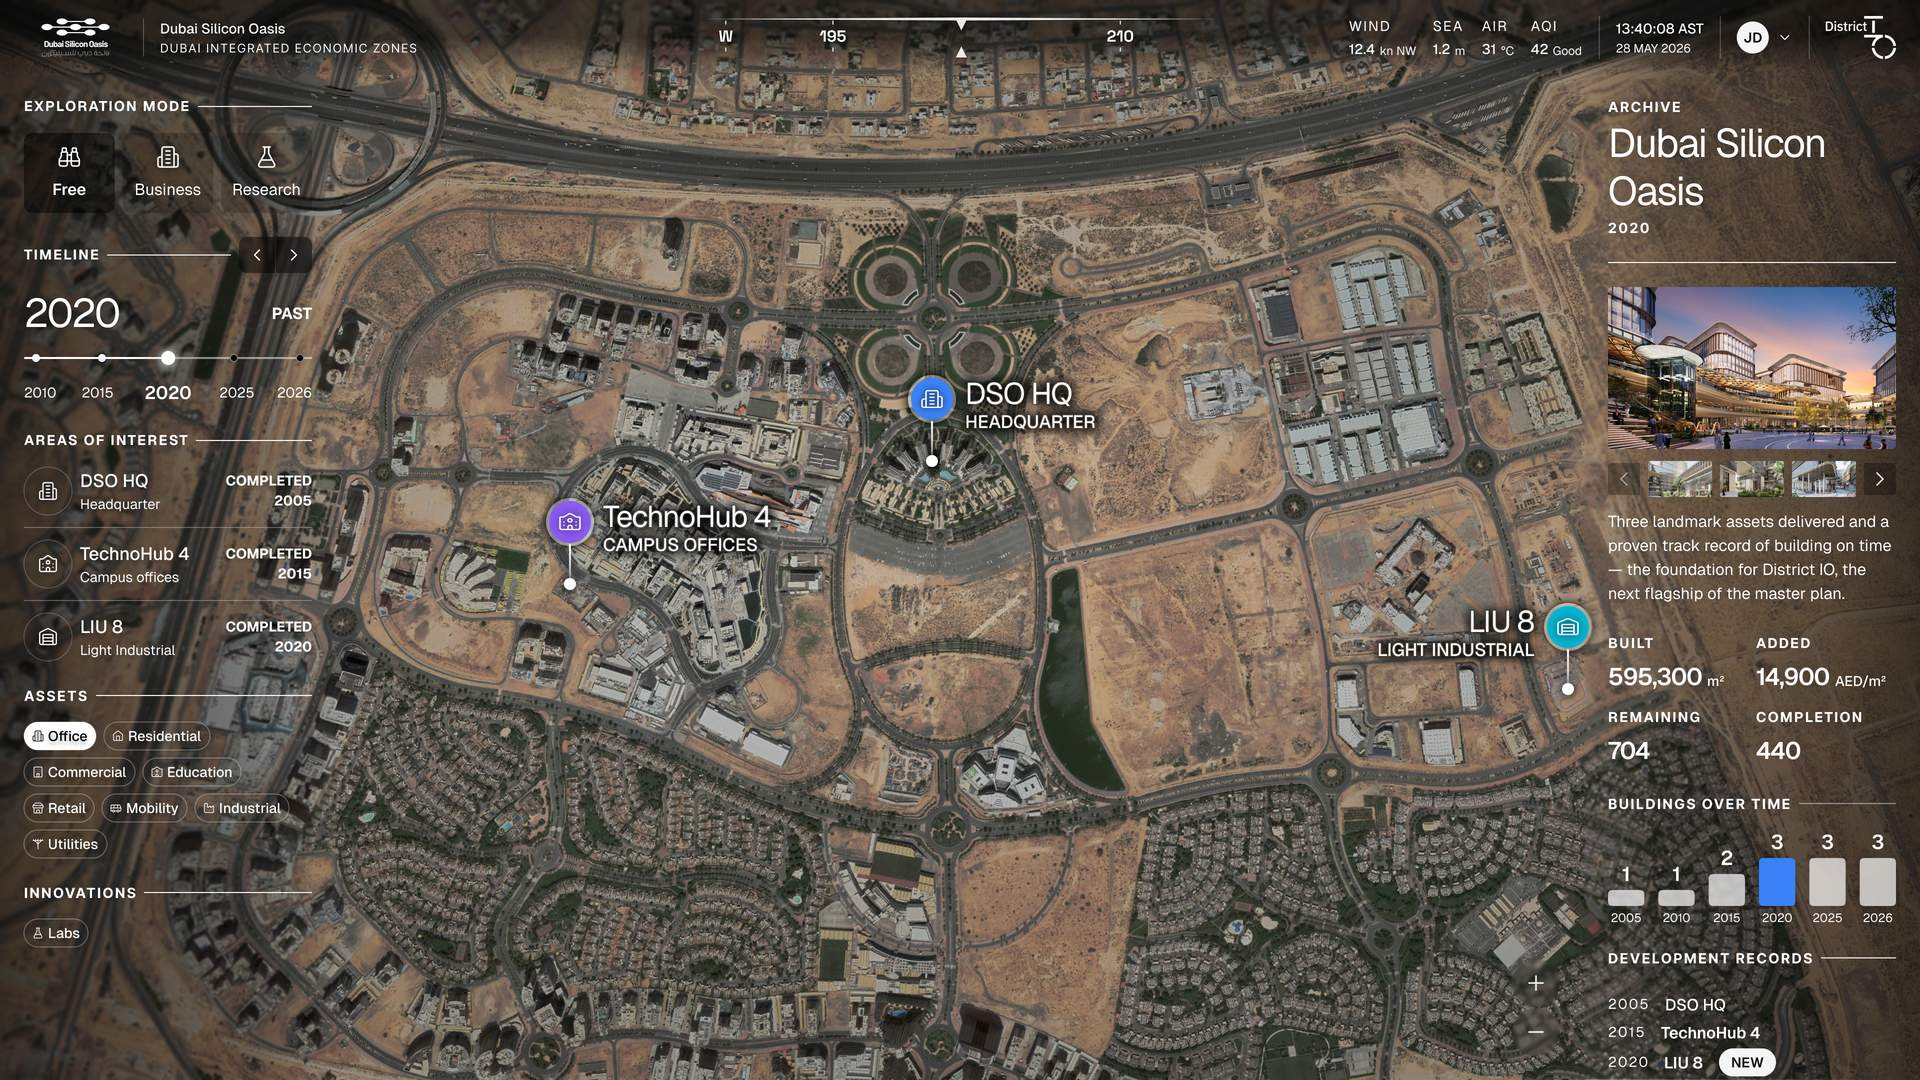
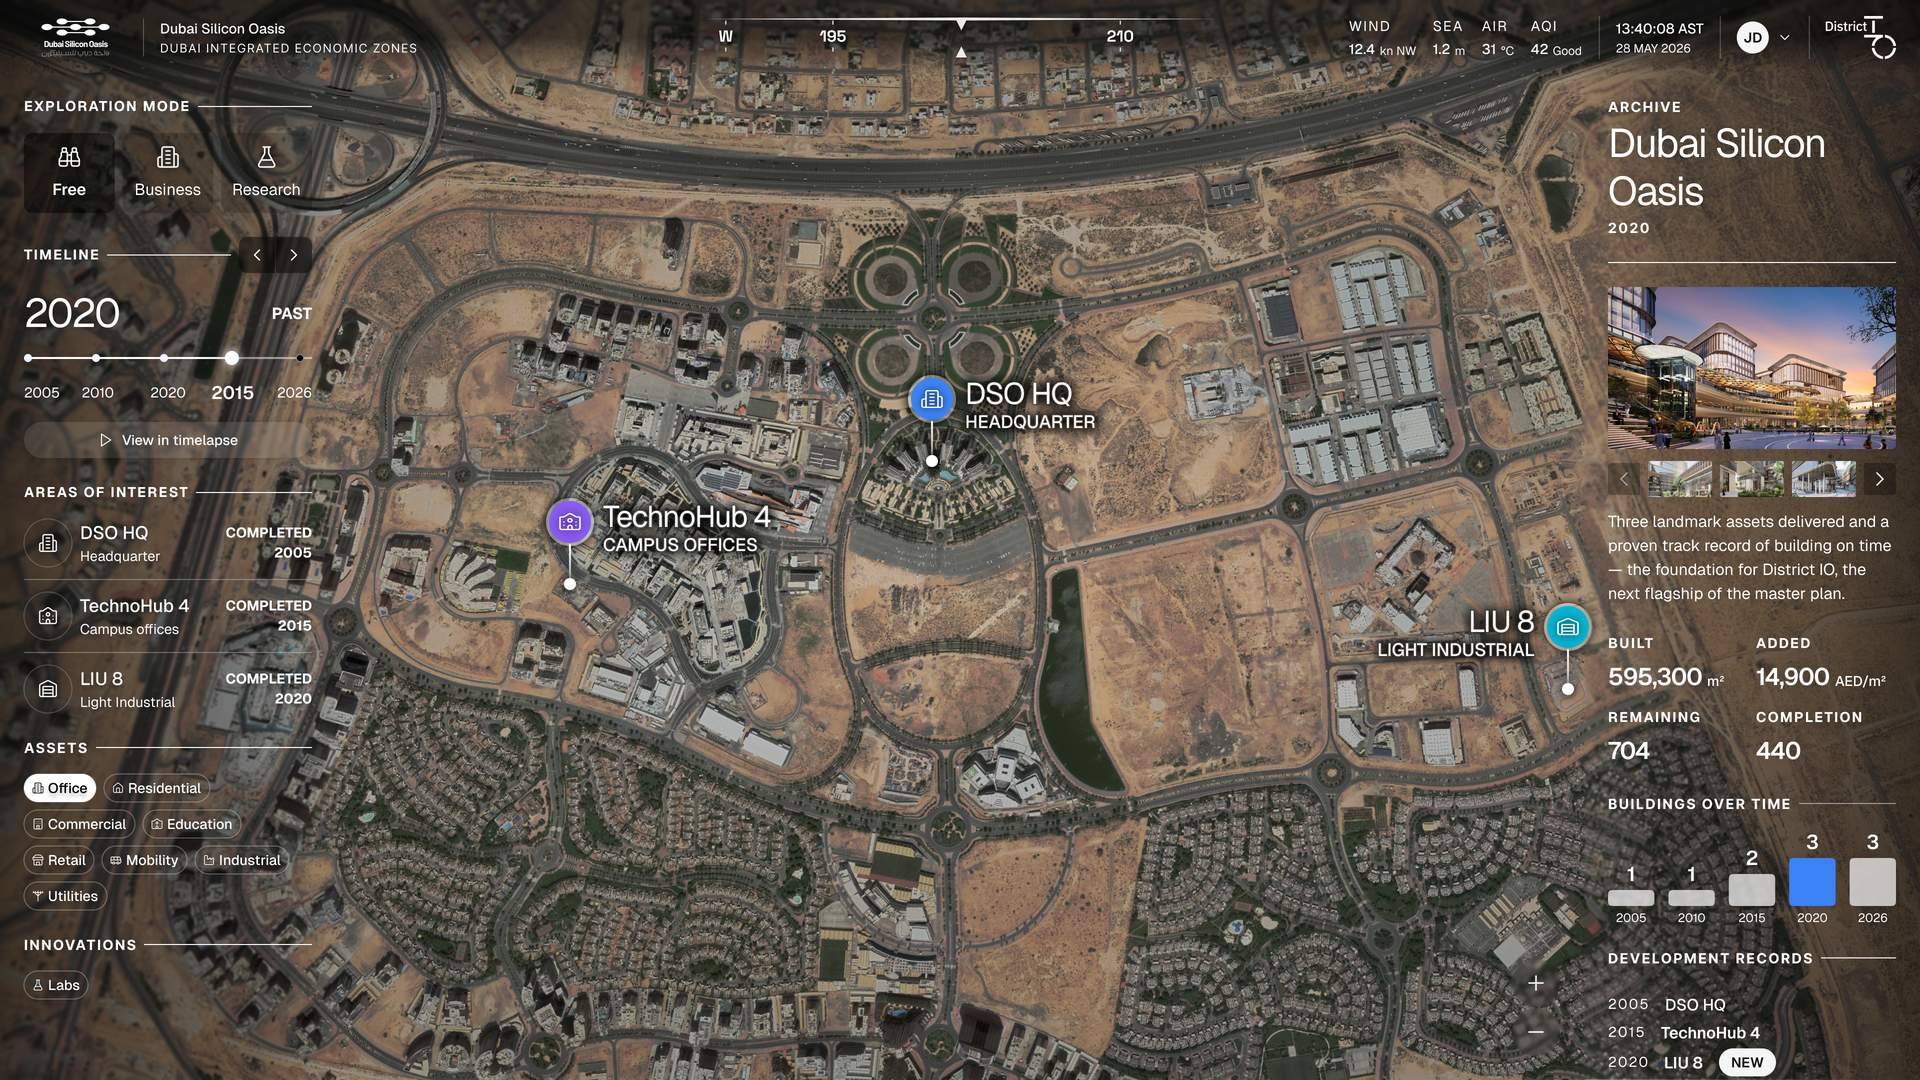
DSO docs: 2005 to 2026 timelapse on Step Through the Archive, with each year below

Changed region(s): [[0.0, 0.3972, 0.1562, 0.9167], [0.8438, 0.7639, 1.0, 0.8556], [0.0625, 0.3056, 0.125, 0.3667]]

diff --git a/src/components/timelapse.tsx b/src/components/timelapse.tsx
@@ -1,0 +1,73 @@
+'use client'
+import { useEffect, useMemo, useState } from 'react'
+
+// Timelapse of archive frames that blend into each other.
+// Use in MDX: <Timelapse frames="2005:file.jpg,2010:file.jpg" caption="..." />
+// Files are served from /dso/api/img/. String props only.
+// Keep every closing ">" on the same line as the last attribute.
+const HOLD_MS = 1800
+const FADE_MS = 1400
+const END_HOLD_MS = 3200
+
+type Frame = { year: string; src: string }
+
+export function Timelapse({ frames, caption }: { frames: string; caption?: string }) {
+  const list: Frame[] = useMemo(() => frames.split(',').map(s => s.trim()).filter(Boolean).map(s => {
+    const [year, file] = s.split(':')
+    return { year: year.trim(), src: `/dso/api/img/${file.trim()}` }
+  }), [frames])
+  const [i, setI] = useState(0)
+  const [playing, setPlaying] = useState(true)
+  const [ready, setReady] = useState(false)
+  const [instant, setInstant] = useState(false)
+  const [reduced, setReduced] = useState(false)
+
+  useEffect(() => {
+    const r = window.matchMedia('(prefers-reduced-motion: reduce)').matches
+    setReduced(r)
+    if (r) setPlaying(false)
+    let left = list.length
+    list.forEach(f => {
+      const im = new Image()
+      im.onload = im.onerror = () => { left -= 1; if (left === 0) setReady(true) }
+      im.src = f.src
+    })
+  }, [list])
+
+  useEffect(() => {
+    if (!playing || !ready) return
+    const last = i === list.length - 1
+    const t = setTimeout(() => {
+      setInstant(last)
+      setI(last ? 0 : i + 1)
+    }, (last ? END_HOLD_MS : HOLD_MS) + FADE_MS)
+    return () => clearTimeout(t)
+  }, [i, playing, ready, list.length])
+
+  const go = (n: number) => { setInstant(false); setI(n) }
+  const fade = reduced || instant ? '0ms' : `${FADE_MS}ms`
+  const text = caption ? caption.charAt(0).toUpperCase() + caption.slice(1) : ''
+
+  return (
+    <span className="not-prose" style={{ display: 'block', margin: '8px 0 32px' }}>
+      <span style={{ display: 'block', position: 'relative', width: '100%', aspectRatio: '16 / 9', overflow: 'hidden', borderRadius: '4px', background: '#111213', filter: 'drop-shadow(0 20px 13px rgb(0 0 0 / 0.03)) drop-shadow(0 8px 5px rgb(0 0 0 / 0.08))' }}>
+        {list.map((f, k) => (
+          <img key={f.src} src={f.src} alt={k === i ? `The district in ${f.year}` : ''} draggable={false} onContextMenu={e => e.preventDefault()} style={{ position: 'absolute', inset: 0, width: '100%', height: '100%', objectFit: 'cover', opacity: k === i ? 1 : 0, transition: `opacity ${fade} ease-in-out` }} />
+        ))}
+        <span aria-live="polite" style={{ position: 'absolute', left: '50%', bottom: '16px', transform: 'translateX(-50%)', background: 'rgba(17,18,19,0.78)', color: '#ffffff', border: '1px solid rgba(255,255,255,0.18)', borderRadius: '999px', padding: '6px 16px', fontSize: '15px', fontWeight: 600, fontVariantNumeric: 'tabular-nums', letterSpacing: '0.02em' }}>{list[i]?.year}</span>
+      </span>
+      <span style={{ display: 'flex', alignItems: 'center', gap: '10px', marginTop: '10px' }}>
+        <button type="button" onClick={() => setPlaying(p => !p)} aria-label={playing ? 'Pause the timelapse' : 'Play the timelapse'} style={{ flexShrink: 0, border: '1px solid hsl(var(--border))', background: 'hsl(var(--background))', color: 'hsl(var(--foreground))', borderRadius: '6px', padding: '4px 10px', fontSize: '12px', cursor: 'pointer' }}>{playing ? 'Pause' : 'Play'}</button>
+        <span style={{ display: 'flex', flex: 1, gap: '4px' }}>
+          {list.map((f, k) => (
+            <button key={f.year} type="button" onClick={() => go(k)} aria-label={`Show ${f.year}`} aria-current={k === i ? 'true' : undefined} style={{ flex: 1, border: 0, background: 'transparent', padding: '4px 0', cursor: 'pointer', color: k === i ? 'hsl(var(--foreground))' : 'hsl(var(--muted-foreground))', fontSize: '11px', fontWeight: k === i ? 600 : 400, fontVariantNumeric: 'tabular-nums' }}>
+              <span style={{ display: 'block', height: '3px', borderRadius: '2px', marginBottom: '4px', background: k <= i ? '#194167' : 'hsl(var(--border))', transition: `background ${fade}` }} />
+              {f.year}
+            </button>
+          ))}
+        </span>
+      </span>
+      {text ? <span style={{ display: 'block', marginTop: '8px', fontSize: '11px', color: 'hsl(var(--muted-foreground))', textAlign: 'center', lineHeight: 1.5 }}>{text}</span> : null}
+    </span>
+  )
+}

diff --git a/src/app/docs/[slug]/page.tsx b/src/app/docs/[slug]/page.tsx
@@ -19,6 +19,7 @@ import {
   CoreWorkflowDiagram,
 } from '@/components/mdx-components'
 import { DocImage } from '@/components/doc-image'
+import { Timelapse } from '@/components/timelapse'
 import { DocVideo } from '@/components/doc-video'
 import { PlatformDiagram } from '@/components/platform-diagram'
 import { SystemMap } from '@/components/system-map'
@@ -56,6 +57,7 @@ export default async function DocPage({
     SimGrid,
     PlatformDiagram,
     DocVideo,
+    Timelapse,
         img: DocImage,
   }
 
